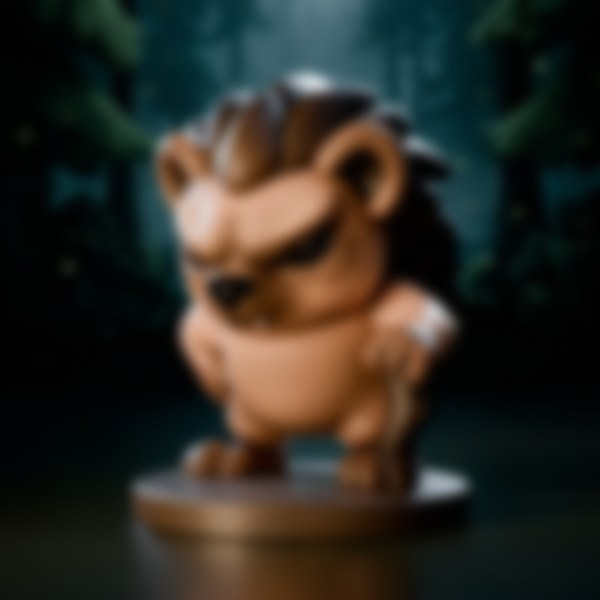
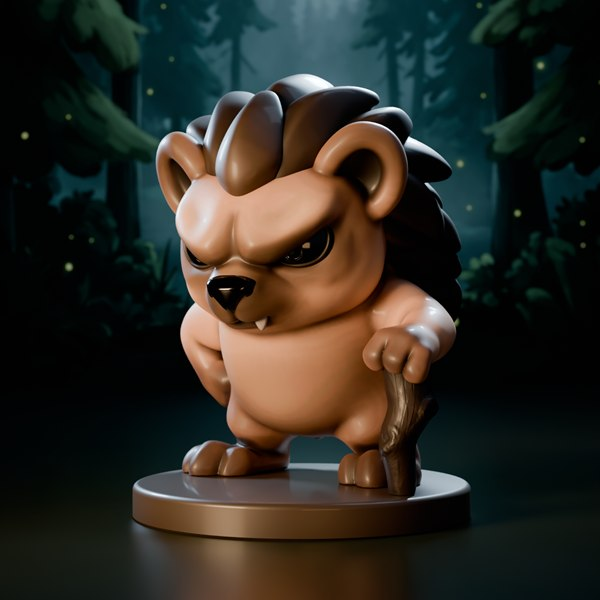
Spike is out: free on Printables, sharp render

diff --git a/index.html b/index.html
@@ -201,14 +201,14 @@
         <span class="badge">Out now</span>
       </div>
     </a>
-    <div class="feature soon">
-      <img src="spike.jpg?v=2" alt="Spike the grumpy hedgehog, 3D model render" width="600" height="600" loading="lazy">
+    <a class="feature" href="https://www.printables.com/model/1929190-spike-the-grumpy-hedgehog-cute-hedgehog-figurine" target="_blank" rel="noopener">
+      <img src="spike.jpg?v=3" alt="Spike the grumpy hedgehog, 3D printable figurine" width="600" height="600" loading="lazy">
       <div class="txt">
         <b>Spike</b>
         <small>Old, spiky, done with everyone.</small><br>
-        <span class="badge soon">Coming soon</span>
+        <span class="badge">Free STL</span>
       </div>
-    </div>
+    </a>
   </section>
 
   <h2>Free critters <span>on the house</span></h2>
